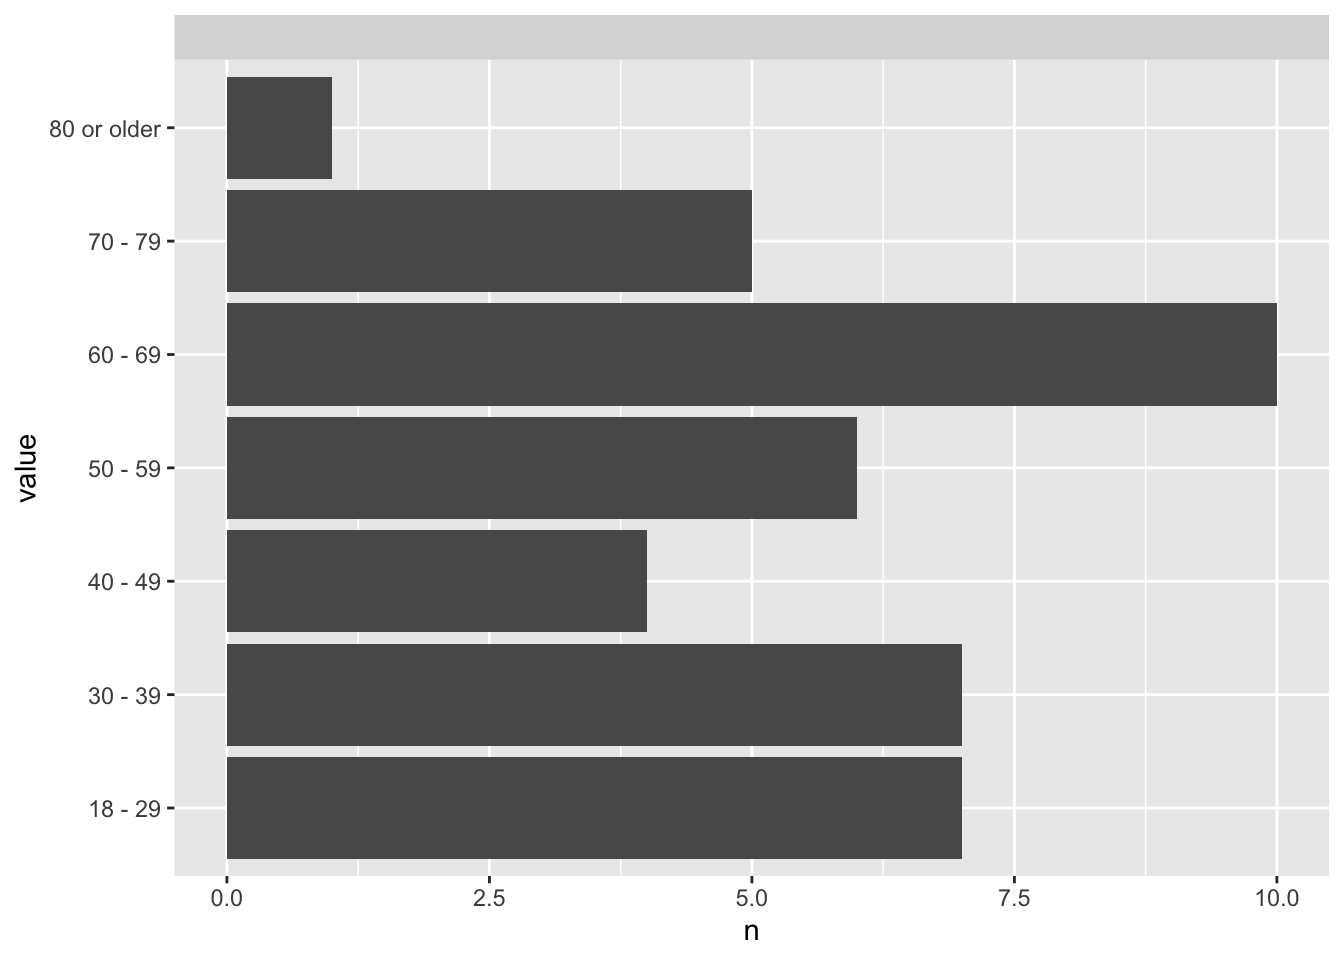
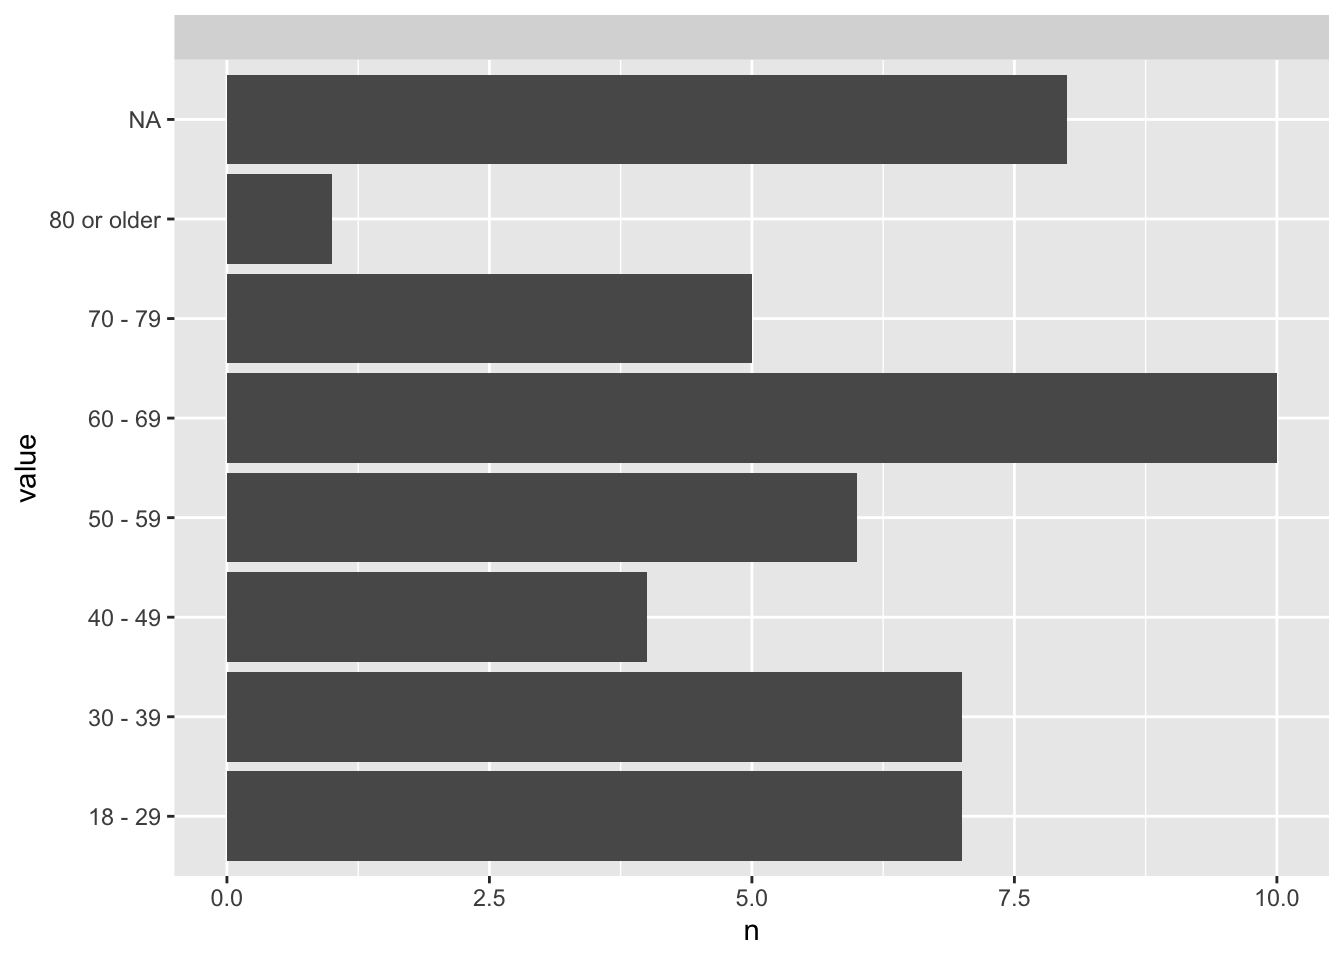
stash

diff --git a/survey-data-analysis-nerr.html b/survey-data-analysis-nerr.html
@@ -269,7 +269,7 @@ code span.wa { color: #60a0b0; font-weight: bold; font-style: italic; } /* Warni
 <span id="cb7-3"><a href="#cb7-3" aria-hidden="true" tabindex="-1"></a>  <span class="fu">pivot_longer</span>(<span class="fu">everything</span>()) <span class="sc">%&gt;%</span></span>
 <span id="cb7-4"><a href="#cb7-4" aria-hidden="true" tabindex="-1"></a>  <span class="fu">mutate</span>(<span class="at">name =</span> <span class="fu">str_remove_all</span>(name, <span class="st">"Age Range"</span>)) <span class="sc">%&gt;%</span> </span>
 <span id="cb7-5"><a href="#cb7-5" aria-hidden="true" tabindex="-1"></a>  <span class="co"># should I drop NA's here?</span></span>
-<span id="cb7-6"><a href="#cb7-6" aria-hidden="true" tabindex="-1"></a>  <span class="fu">drop_na</span>() <span class="sc">%&gt;%</span> </span>
+<span id="cb7-6"><a href="#cb7-6" aria-hidden="true" tabindex="-1"></a>  <span class="co"># drop_na() %&gt;% </span></span>
 <span id="cb7-7"><a href="#cb7-7" aria-hidden="true" tabindex="-1"></a><span class="fu">mutate</span>(<span class="at">value =</span> <span class="fu">str_squish</span>(value)) <span class="sc">%&gt;%</span> </span>
 <span id="cb7-8"><a href="#cb7-8" aria-hidden="true" tabindex="-1"></a> <span class="fu">mutate</span>(<span class="at">value =</span> <span class="fu">fct_relevel</span>(value,</span>
 <span id="cb7-9"><a href="#cb7-9" aria-hidden="true" tabindex="-1"></a>                            <span class="fu">c</span>(<span class="st">"18 - 29"</span>,</span>
@@ -292,28 +292,54 @@ code span.wa { color: #60a0b0; font-weight: bold; font-style: italic; } /* Warni
 </div>
 </div>
 <p>Ethnicity</p>
-<p>Gender Identity</p>
 <div class="cell">
 <div class="sourceCode cell-code" id="cb8"><pre class="sourceCode r code-with-copy"><code class="sourceCode r"><span id="cb8-1"><a href="#cb8-1" aria-hidden="true" tabindex="-1"></a>survey_data_q <span class="sc">%&gt;%</span> </span>
-<span id="cb8-2"><a href="#cb8-2" aria-hidden="true" tabindex="-1"></a>  <span class="fu">select</span>(<span class="fu">starts_with</span>(<span class="st">"Gender Identity - Selected Choice"</span>)) <span class="sc">%&gt;%</span></span>
+<span id="cb8-2"><a href="#cb8-2" aria-hidden="true" tabindex="-1"></a>  <span class="fu">select</span>(<span class="fu">starts_with</span>(<span class="st">"Ethinicity - Selected Choice"</span>)) <span class="sc">%&gt;%</span></span>
 <span id="cb8-3"><a href="#cb8-3" aria-hidden="true" tabindex="-1"></a>  <span class="fu">pivot_longer</span>(<span class="fu">everything</span>()) <span class="sc">%&gt;%</span> </span>
 <span id="cb8-4"><a href="#cb8-4" aria-hidden="true" tabindex="-1"></a>  <span class="fu">mutate</span>(<span class="at">name =</span> <span class="fu">str_remove_all</span>(name, <span class="st">"Gender Identity - Selected Choice"</span>)) <span class="sc">%&gt;%</span> </span>
 <span id="cb8-5"><a href="#cb8-5" aria-hidden="true" tabindex="-1"></a>  <span class="fu">drop_na</span>() <span class="sc">%&gt;%</span> </span>
 <span id="cb8-6"><a href="#cb8-6" aria-hidden="true" tabindex="-1"></a>  <span class="fu">mutate</span>(<span class="at">value =</span> <span class="fu">str_squish</span>(value)) <span class="sc">%&gt;%</span> </span>
 <span id="cb8-7"><a href="#cb8-7" aria-hidden="true" tabindex="-1"></a> <span class="fu">mutate</span>(<span class="at">value =</span> <span class="fu">fct_relevel</span>(value,</span>
-<span id="cb8-8"><a href="#cb8-8" aria-hidden="true" tabindex="-1"></a>                            <span class="fu">c</span>(<span class="st">"Female"</span>,</span>
-<span id="cb8-9"><a href="#cb8-9" aria-hidden="true" tabindex="-1"></a>                              <span class="st">"Male"</span>,</span>
-<span id="cb8-10"><a href="#cb8-10" aria-hidden="true" tabindex="-1"></a>                              <span class="st">"Prefer not to say"</span>))) <span class="sc">%&gt;%</span></span>
-<span id="cb8-11"><a href="#cb8-11" aria-hidden="true" tabindex="-1"></a>  <span class="fu">group_by</span>(name, value) <span class="sc">%&gt;%</span> </span>
-<span id="cb8-12"><a href="#cb8-12" aria-hidden="true" tabindex="-1"></a>  <span class="fu">summarise</span>(<span class="at">n =</span> <span class="fu">n</span>()) <span class="sc">%&gt;%</span> </span>
-<span id="cb8-13"><a href="#cb8-13" aria-hidden="true" tabindex="-1"></a>  <span class="co"># plot</span></span>
-<span id="cb8-14"><a href="#cb8-14" aria-hidden="true" tabindex="-1"></a>  <span class="fu">ggplot</span>() <span class="sc">+</span></span>
-<span id="cb8-15"><a href="#cb8-15" aria-hidden="true" tabindex="-1"></a>    <span class="fu">aes</span>(value, n) <span class="sc">+</span></span>
-<span id="cb8-16"><a href="#cb8-16" aria-hidden="true" tabindex="-1"></a>    <span class="fu">geom_col</span>() <span class="sc">+</span></span>
-<span id="cb8-17"><a href="#cb8-17" aria-hidden="true" tabindex="-1"></a>    <span class="fu">coord_flip</span>() <span class="sc">+</span></span>
-<span id="cb8-18"><a href="#cb8-18" aria-hidden="true" tabindex="-1"></a>    <span class="fu">facet_wrap</span>( <span class="sc">~</span> name)</span></code><button title="Copy to Clipboard" class="code-copy-button"><i class="bi"></i></button></pre></div>
+<span id="cb8-8"><a href="#cb8-8" aria-hidden="true" tabindex="-1"></a>                            <span class="fu">c</span>(<span class="st">"Caucasian (non-Hispanic)"</span>,</span>
+<span id="cb8-9"><a href="#cb8-9" aria-hidden="true" tabindex="-1"></a>                              <span class="st">"African-American"</span>,</span>
+<span id="cb8-10"><a href="#cb8-10" aria-hidden="true" tabindex="-1"></a>                              <span class="st">"Asian/Pacific Islander"</span>,</span>
+<span id="cb8-11"><a href="#cb8-11" aria-hidden="true" tabindex="-1"></a>                              <span class="st">"Multi-racial"</span>,</span>
+<span id="cb8-12"><a href="#cb8-12" aria-hidden="true" tabindex="-1"></a>                              <span class="st">"Prefer to self-identify as"</span>,</span>
+<span id="cb8-13"><a href="#cb8-13" aria-hidden="true" tabindex="-1"></a>                              <span class="st">"Prefer not to answer"</span>))) <span class="sc">%&gt;%</span></span>
+<span id="cb8-14"><a href="#cb8-14" aria-hidden="true" tabindex="-1"></a>  <span class="fu">group_by</span>(name, value) <span class="sc">%&gt;%</span> </span>
+<span id="cb8-15"><a href="#cb8-15" aria-hidden="true" tabindex="-1"></a>  <span class="fu">summarise</span>(<span class="at">n =</span> <span class="fu">n</span>()) <span class="sc">%&gt;%</span> </span>
+<span id="cb8-16"><a href="#cb8-16" aria-hidden="true" tabindex="-1"></a>  <span class="co"># plot</span></span>
+<span id="cb8-17"><a href="#cb8-17" aria-hidden="true" tabindex="-1"></a>  <span class="fu">ggplot</span>() <span class="sc">+</span></span>
+<span id="cb8-18"><a href="#cb8-18" aria-hidden="true" tabindex="-1"></a>    <span class="fu">aes</span>(value, n) <span class="sc">+</span></span>
+<span id="cb8-19"><a href="#cb8-19" aria-hidden="true" tabindex="-1"></a>    <span class="fu">geom_col</span>() <span class="sc">+</span></span>
+<span id="cb8-20"><a href="#cb8-20" aria-hidden="true" tabindex="-1"></a>    <span class="fu">coord_flip</span>() <span class="sc">+</span></span>
+<span id="cb8-21"><a href="#cb8-21" aria-hidden="true" tabindex="-1"></a>    <span class="fu">facet_wrap</span>( <span class="sc">~</span> name)</span></code><button title="Copy to Clipboard" class="code-copy-button"><i class="bi"></i></button></pre></div>
 <div class="cell-output-display">
 <p><img src="survey-data-analysis-nerr_files/figure-html/unnamed-chunk-8-1.png" class="img-fluid" width="672"></p>
+</div>
+</div>
+<p>Gender Identity</p>
+<div class="cell">
+<div class="sourceCode cell-code" id="cb9"><pre class="sourceCode r code-with-copy"><code class="sourceCode r"><span id="cb9-1"><a href="#cb9-1" aria-hidden="true" tabindex="-1"></a>survey_data_q <span class="sc">%&gt;%</span> </span>
+<span id="cb9-2"><a href="#cb9-2" aria-hidden="true" tabindex="-1"></a>  <span class="fu">select</span>(<span class="fu">starts_with</span>(<span class="st">"Gender Identity - Selected Choice"</span>)) <span class="sc">%&gt;%</span></span>
+<span id="cb9-3"><a href="#cb9-3" aria-hidden="true" tabindex="-1"></a>  <span class="fu">pivot_longer</span>(<span class="fu">everything</span>()) <span class="sc">%&gt;%</span> </span>
+<span id="cb9-4"><a href="#cb9-4" aria-hidden="true" tabindex="-1"></a>  <span class="fu">mutate</span>(<span class="at">name =</span> <span class="fu">str_remove_all</span>(name, <span class="st">"Gender Identity - Selected Choice"</span>)) <span class="sc">%&gt;%</span> </span>
+<span id="cb9-5"><a href="#cb9-5" aria-hidden="true" tabindex="-1"></a>  <span class="fu">drop_na</span>() <span class="sc">%&gt;%</span> </span>
+<span id="cb9-6"><a href="#cb9-6" aria-hidden="true" tabindex="-1"></a>  <span class="fu">mutate</span>(<span class="at">value =</span> <span class="fu">str_squish</span>(value)) <span class="sc">%&gt;%</span> </span>
+<span id="cb9-7"><a href="#cb9-7" aria-hidden="true" tabindex="-1"></a> <span class="fu">mutate</span>(<span class="at">value =</span> <span class="fu">fct_relevel</span>(value,</span>
+<span id="cb9-8"><a href="#cb9-8" aria-hidden="true" tabindex="-1"></a>                            <span class="fu">c</span>(<span class="st">"Female"</span>,</span>
+<span id="cb9-9"><a href="#cb9-9" aria-hidden="true" tabindex="-1"></a>                              <span class="st">"Male"</span>,</span>
+<span id="cb9-10"><a href="#cb9-10" aria-hidden="true" tabindex="-1"></a>                              <span class="st">"Prefer not to say"</span>))) <span class="sc">%&gt;%</span></span>
+<span id="cb9-11"><a href="#cb9-11" aria-hidden="true" tabindex="-1"></a>  <span class="fu">group_by</span>(name, value) <span class="sc">%&gt;%</span> </span>
+<span id="cb9-12"><a href="#cb9-12" aria-hidden="true" tabindex="-1"></a>  <span class="fu">summarise</span>(<span class="at">n =</span> <span class="fu">n</span>()) <span class="sc">%&gt;%</span> </span>
+<span id="cb9-13"><a href="#cb9-13" aria-hidden="true" tabindex="-1"></a>  <span class="co"># plot</span></span>
+<span id="cb9-14"><a href="#cb9-14" aria-hidden="true" tabindex="-1"></a>  <span class="fu">ggplot</span>() <span class="sc">+</span></span>
+<span id="cb9-15"><a href="#cb9-15" aria-hidden="true" tabindex="-1"></a>    <span class="fu">aes</span>(value, n) <span class="sc">+</span></span>
+<span id="cb9-16"><a href="#cb9-16" aria-hidden="true" tabindex="-1"></a>    <span class="fu">geom_col</span>() <span class="sc">+</span></span>
+<span id="cb9-17"><a href="#cb9-17" aria-hidden="true" tabindex="-1"></a>    <span class="fu">coord_flip</span>() <span class="sc">+</span></span>
+<span id="cb9-18"><a href="#cb9-18" aria-hidden="true" tabindex="-1"></a>    <span class="fu">facet_wrap</span>( <span class="sc">~</span> name)</span></code><button title="Copy to Clipboard" class="code-copy-button"><i class="bi"></i></button></pre></div>
+<div class="cell-output-display">
+<p><img src="survey-data-analysis-nerr_files/figure-html/unnamed-chunk-9-1.png" class="img-fluid" width="672"></p>
 </div>
 </div>
 <p>(Gender Identity - Prefer to self-identify as: - Text)</p>
